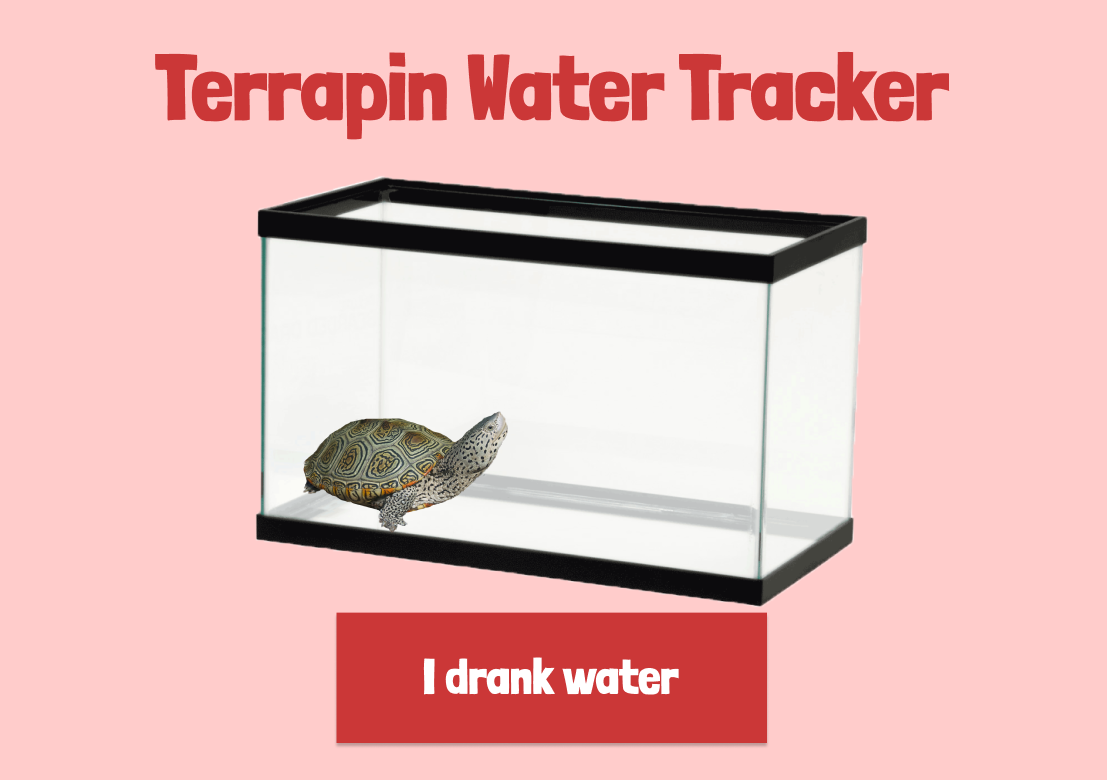
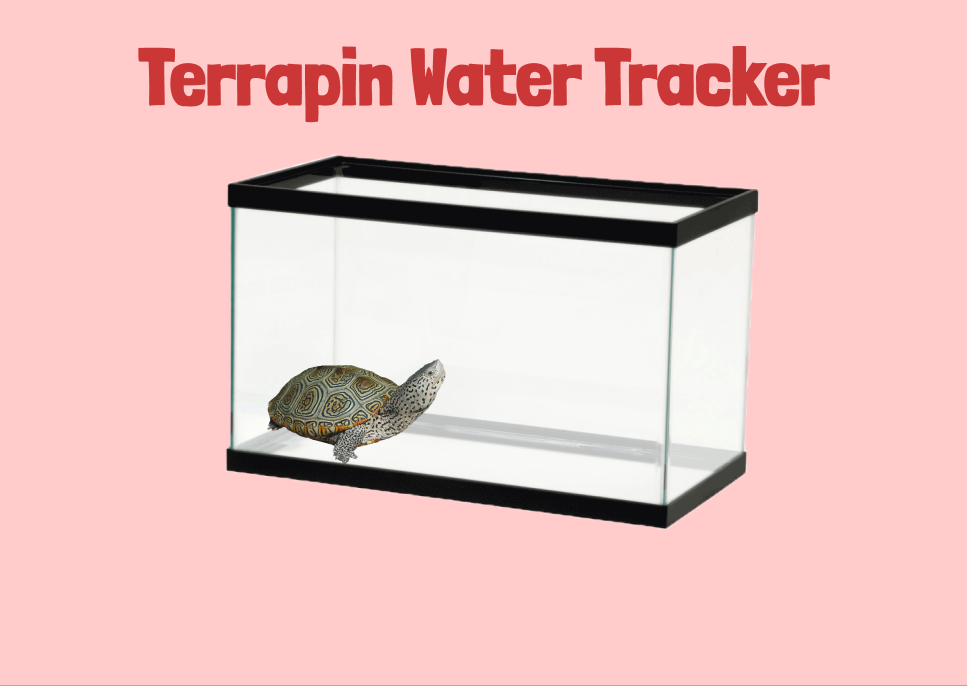
took away the figma button so less confusing

diff --git a/terrarium.py b/terrarium.py
@@ -105,8 +105,3 @@ class MainPage(Tk):
 if __name__ == "__main__":
     main = MainPage()
     main.mainloop()
-
-
-if __name__ == "__main__":
-    main = MainPage()
-    main.mainloop()
